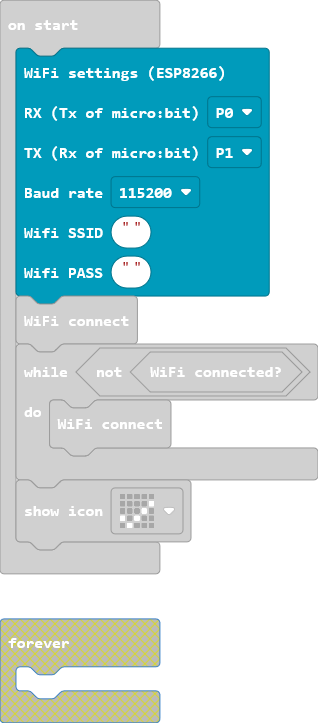
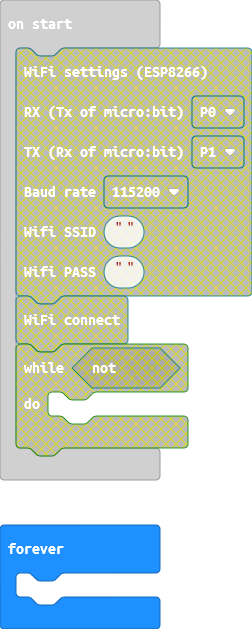
Update main.blocks, main.ts, pxt-wrohellas-cloud.ts

diff --git a/pxt-wrohellas-cloud.ts b/pxt-wrohellas-cloud.ts
@@ -77,6 +77,10 @@ namespace WROHellasCloud {
         clearBuffer()
         writeBuffer("AT+CIPMODE=0", 500) //
         clearBuffer()
+        if (rsid!="") {
+            writeBuffer("AT+CWHOSTNAME=\"" + rsid + "\"", 500)
+            clearBuffer()
+        }
         writeBuffer("AT+CIPMUX=0", 500) //
         clearBuffer()
         writeBuffer("AT+CWAUTOCONN=1", 500) // enable reconnecting when connection is dropped
@@ -96,16 +100,16 @@ namespace WROHellasCloud {
     // Checks if wifi properly connected
     export function wifiStatus(): boolean {
         basic.pause(1000)
-        //let cData: string[]
+        let cData: string[]
         clearBuffer()
         writeBuffer("AT+CIFSR", 10)
         let s = readBuffer(3000)
-        //if (!s.includes(CRLF)) { s = " " + CRLF + " " }
-        //cData = s.split(CRLF)
-        //if (cData[0].includes("+CIFSR:STAIP") && !cData[0].includes("0.0.0.0")) {
-        //    return true
-        //} else { return false }
-        if (s.includes("0.0.0.0")) { return false } else { return true }
+        if (!s.includes(CRLF)) { s = " " + CRLF + " " }
+        cData = s.split(CRLF)
+        if (cData[0].includes("+CIFSR:STAIP") && !cData[0].includes("0.0.0.0")) {
+            return true
+        } else { return false }
+        //if (s.includes("0.0.0.0")) { return false } else { return true }
     }
 
 

diff --git a/main.ts b/main.ts
@@ -1,11 +1,3 @@
-WROHellasCloud.wifiSettings(
-SerialPin.P0,
-SerialPin.P1,
-BaudRate.BaudRate115200,
-"",
-""
-)
-WROHellasCloud.wifiConnect()
-while (!(false)) {
+basic.forever(function () {
 	
-}
+})
